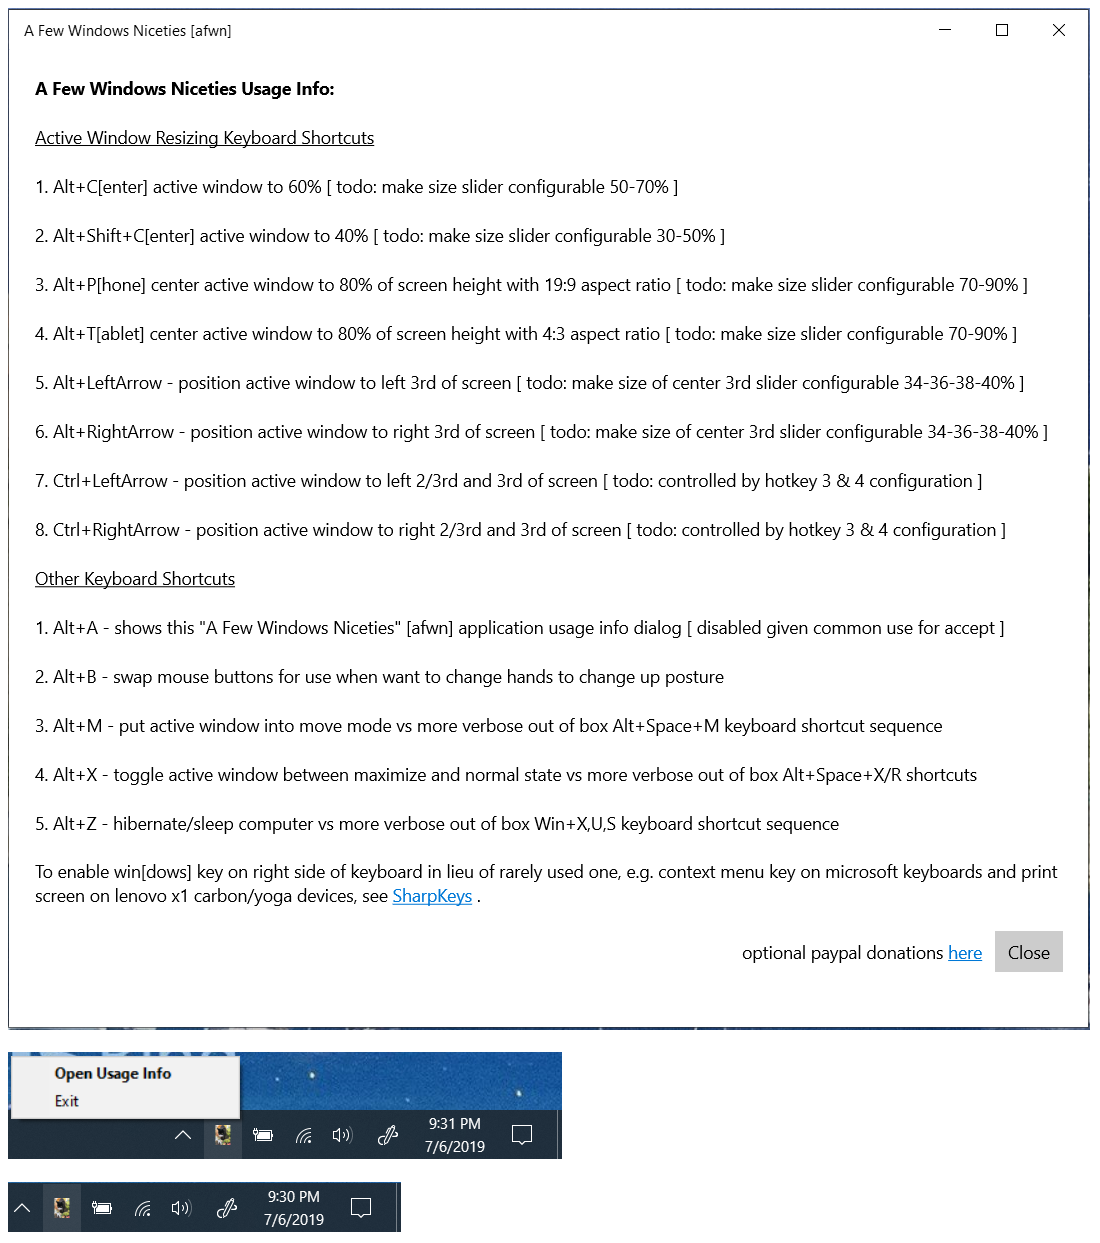
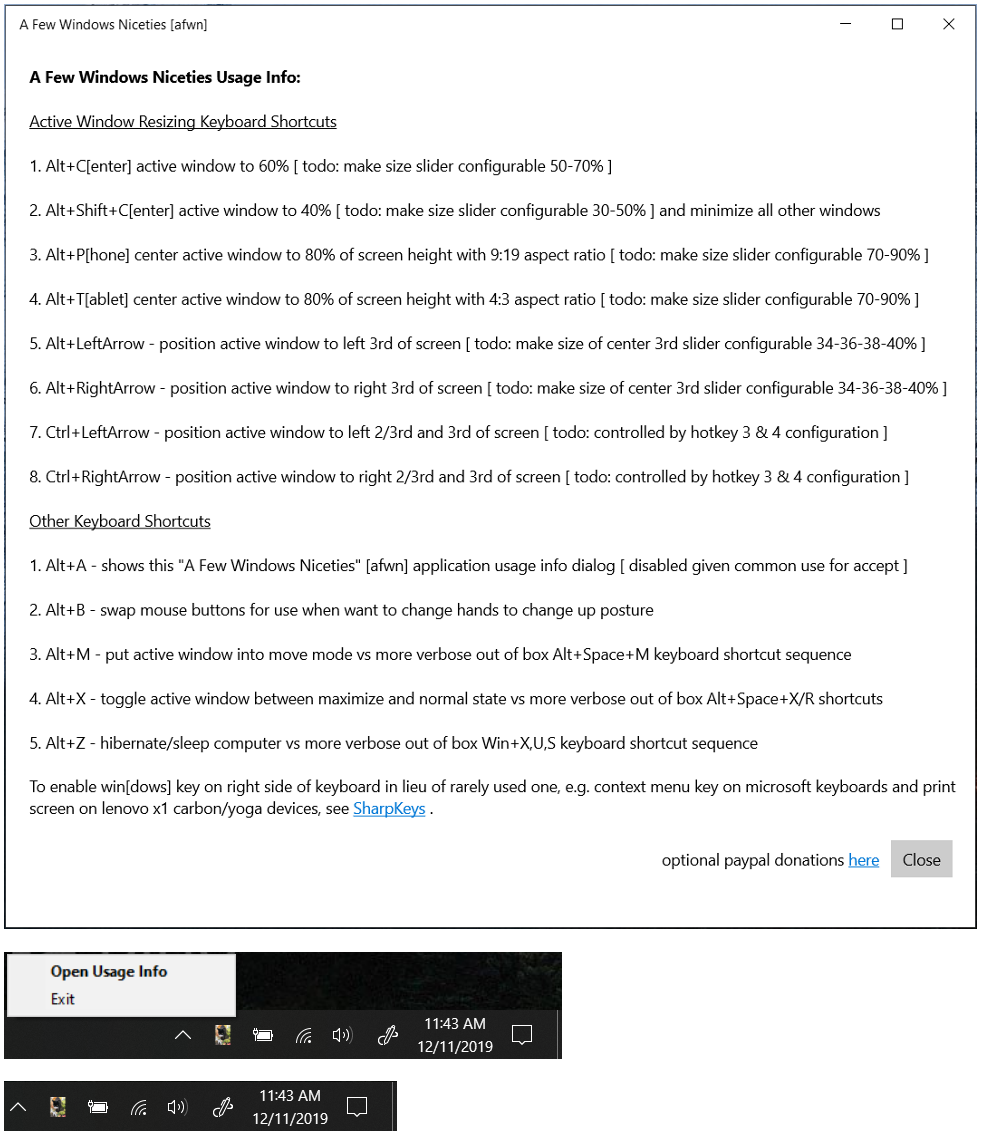
1.1.11.0 release updates where correcting alt+t[ablet] active window resizing to use 4:3 vs 1:1 and added code to try and enable winkey+home behavior when alt+shift+c[enter] used but didn't enable for reasons noted in comments

Changed region(s): [[0.0, 0.0, 1.0, 1.0]]

diff --git a/SystrayExtension/MainPage.xaml b/SystrayExtension/MainPage.xaml
@@ -36,8 +36,8 @@
             <TextBlock FontWeight="Bold" Margin="10,20,0,20">A Few Windows Niceties Usage Info:</TextBlock>
             <TextBlock><Underline>Active Window Resizing Keyboard Shortcuts</Underline></TextBlock>
             <TextBlock>1. Alt+C[enter] active window to 60% [ todo: make size slider configurable 50-70% ]</TextBlock>
-            <TextBlock>2. Alt+Shift+C[enter] active window to 40% [ todo: make size slider configurable 30-50% ]</TextBlock>
-            <TextBlock>3. Alt+P[hone] center active window to 80% of screen height with 19:9 aspect ratio [ todo: make size slider configurable 70-90% ]</TextBlock>
+            <TextBlock>2. Alt+Shift+C[enter] active window to 40% [ todo: make size slider configurable 30-50% ] and minimize all other windows</TextBlock>
+            <TextBlock>3. Alt+P[hone] center active window to 80% of screen height with 9:19 aspect ratio [ todo: make size slider configurable 70-90% ]</TextBlock>
             <TextBlock>4. Alt+T[ablet] center active window to 80% of screen height with 4:3 aspect ratio [ todo: make size slider configurable 70-90% ]</TextBlock>
             <TextBlock>5. Alt+LeftArrow - position active window to left 3rd of screen [ todo: make size of center 3rd slider configurable 34-36-38-40% ]</TextBlock>
             <TextBlock>6. Alt+RightArrow - position active window to right 3rd of screen [ todo: make size of center 3rd slider configurable 34-36-38-40% ]</TextBlock>

diff --git a/SystrayComponent/PositionActiveWindow.cs b/SystrayComponent/PositionActiveWindow.cs
@@ -3,6 +3,7 @@ using System.Collections.Generic;
 using System.Diagnostics;
 using System.Runtime.InteropServices;
 using System.Text;
+using System.Threading;
 using System.Threading.Tasks;
 using System.Windows.Forms;
 using Windows.UI.ViewManagement;
@@ -95,6 +96,21 @@ namespace SystrayComponent
         //const ulong SC_MOVE = 0xF010;
         readonly UIntPtr SC_MOVE = new UIntPtr(0xF010);
         readonly UIntPtr SC_MAXIMIZE = new UIntPtr(0xF030);
+
+        // win32 api for minimizing all windows -> https://stackoverflow.com/questions/13942765/minimize-all-open-windows
+        // WPARAM MIN_ALL -> https://stackoverflow.com/questions/785054/minimizing-all-open-windows-in-c-sharp
+        const int WM_COMMAND = 0x0111;
+        readonly UIntPtr MIN_ALL = new UIntPtr(0x01A3); // == 419 decimal
+        readonly UIntPtr MIN_ALL_UNDO = new UIntPtr(0x01A0); // == 416 decimal
+
+        // win32 api virtual key codes https://docs.microsoft.com/en-us/windows/win32/inputdev/virtual-key-codes
+        //readonly UIntPtr MOD_ALT = new UIntPtr(0x0001);
+        //readonly UIntPtr MOD_CONTROL = new UIntPtr(0x0002);
+        //readonly UIntPtr MOD_SHIFT = new UIntPtr(0x0004);
+        readonly UIntPtr MOD_WIN = new UIntPtr(0x0008);
+
+        //readonly IntPtr VK_END = new IntPtr(0x0023);
+        readonly IntPtr VK_HOME = new IntPtr(0x0024);
         #endregion
 
         #region Public Methods
@@ -193,8 +209,8 @@ namespace SystrayComponent
                 // https://docs.microsoft.com/en-us/windows/desktop/api/winuser/nf-winuser-sendmessage, https://www.bing.com/search?q=c%23+wparam+lparam ->
                 // https://stackoverflow.com/questions/2515261/what-are-the-definitions-for-lparam-and-wparam and c# types reference summary ->
                 // short [ / Int16 ] -> ushort [ / UInt16 ]-> int [ / Int32 ] -> uint [ / UInt32 ] -> long -> [ / Int64 ] -> ulong [ / UInt64 ] and float -> double -> decimal
-                //SendMessage(awh, WM_SYSCOMMAND, SC_MOVE, 0); // if using signature (IntPtr hWnd, int msg, ulong wParam, long lParam); generates PInvokeStackImbalance upon return
-                SendMessage(awh, WM_SYSCOMMAND, SC_MOVE, new IntPtr(0)); // if using signature (IntPtr hWnd, int msg, UIntPtr wParam, IntPtr lParam);
+                //SendMessage(awh, WM_SYSCOMMAND, SC_MOVE, IntPtr.Zero); // if using signature (IntPtr hWnd, int msg, ulong wParam, long lParam); generates PInvokeStackImbalance upon return
+                SendMessage(awh, WM_SYSCOMMAND, SC_MOVE, IntPtr.Zero); // if using signature (IntPtr hWnd, int msg, UIntPtr wParam, IntPtr lParam);
             }
         }
 
@@ -204,14 +220,14 @@ namespace SystrayComponent
 
             if (awh != IntPtr.Zero && !IsWindowInMaximizeState(awh))  // only act on active window that is not currently in maximize state where maximizing it makes sense
             {
-                //SendMessage(awh, WM_SYSCOMMAND, SC_MAXIMIZE, 0); // if using signature (IntPtr hWnd, int msg, ulong wParam, long lParam); generates PInvokeStackImbalance upon return
-                //SendMessage(awh, WM_SYSCOMMAND, SC_MAXIMIZE, new IntPtr(0)); // if using signature (IntPtr hWnd, int msg, UIntPtr wParam, IntPtr lParam);
+                //SendMessage(awh, WM_SYSCOMMAND, SC_MAXIMIZE, IntPtr.Zero); // if using signature (IntPtr hWnd, int msg, ulong wParam, long lParam); generates PInvokeStackImbalance upon return
+                //SendMessage(awh, WM_SYSCOMMAND, SC_MAXIMIZE, IntPtr.Zero); // if using signature (IntPtr hWnd, int msg, UIntPtr wParam, IntPtr lParam);
                 ShowWindow(awh, SW_MAXIMIZE);
             }
             else if (awh != IntPtr.Zero && !IsWindowInNormalState(awh))  // only act on active window that is not currently in normal state where normal/restore it makes sense
             {
-                //SendMessage(awh, WM_SYSCOMMAND, SW_RESTORE, 0); // if using signature (IntPtr hWnd, int msg, ulong wParam, long lParam); generates PInvokeStackImbalance upon return
-                //SendMessage(awh, WM_SYSCOMMAND, SW_RESTORE, new IntPtr(0)); // if using signature (IntPtr hWnd, int msg, UIntPtr wParam, IntPtr lParam);
+                //SendMessage(awh, WM_SYSCOMMAND, SW_RESTORE, IntPtr.Zero); // if using signature (IntPtr hWnd, int msg, ulong wParam, long lParam); generates PInvokeStackImbalance upon return
+                //SendMessage(awh, WM_SYSCOMMAND, SW_RESTORE, IntPtr.Zero); // if using signature (IntPtr hWnd, int msg, UIntPtr wParam, IntPtr lParam);
                 ShowWindow(awh, SW_RESTORE);
             }
         }
@@ -231,13 +247,24 @@ namespace SystrayComponent
         /// </summary>
         /// <param name="percentageOfTotalWidth">Percentage of total width to use when centering window, default is 60.</param>
         /// <param name="topBottomBorder">Number of pixels to use as border across top and bottom, default is 0.</param>
-        public void CenterActiveWindowPosition(int percentageOfTotalWidth = 60, int topBottomBorder = 0)
+        public void CenterActiveWindowPosition(int percentageOfTotalWidth = 60, int topBottomBorder = 0, bool minimizeAllOtherWindows = false)
         {
 // if you resize active window that is currently in SW_MAXIMIZE state it ends up not resizing it at all, e.g. in case of chrome, or
 // resizing it but with an appx 7px space across top and bottom of window and if you minimize it and then restore it comes back as
 // SW_MAXIMIZE state not expected SW_SHOW[NORMAL] state. so we check for SW_MAXIMIZE state and change to SW_SHOW[NORMAL] before
 // resizing
-            var awh = GetActiveWindowHandle(); var swState = SW_HIDE;
+
+            var awh = GetActiveWindowHandle();
+
+            if (minimizeAllOtherWindows)
+            {
+// minimimize all other windows, relevant if you want to eliminate distractions for creating a focused reading window experience, before ensuring active window is in restored state
+// the do that first and then restore active window before sizing it 
+                //DesktopHideAndRestore(hide: true);  // works but introduces a jarring window minimize, 1sec wait, then restore and resize
+                //MinimizeAllWindowsExceptActiveOne();  // doesn't yet work but is desired solution so uncomment if you can workaround using win32 api pinvoke solution
+            }
+
+            var swState = SW_HIDE;
             if (!IsWindowVisible(awh)) swState = SW_HIDE;
             else if (IsIconic(awh)) swState = SW_MINIMIZE;
             else if (IsZoomed(awh)) swState = SW_MAXIMIZE;
@@ -272,8 +299,8 @@ namespace SystrayComponent
         /// Take current active window and place it in center using specified percentage of total screen height and aspect ratio to determine width.
         /// </summary>
         /// <param name="percentageOfTotalHeight">Percentage of total screen height to use when determining when centering window, default is 80.</param>
-        /// <param name="aspectRatio">Aspect ratio to determine width of centered window after height has been calculated, default is current generation mobile device 19x9.</param>
-        public void CenterActiveWindowPositionHeightAndspectRatio(int percentageOfTotalHeight = 80, decimal aspectRatio = (decimal)19/9)
+        /// <param name="aspectRatio">Aspect ratio to determine width of centered window after height has been calculated, default is current generation mobile device 9x19.</param>
+        public void CenterActiveWindowPositionHeightAndAspectRatio(int percentageOfTotalHeight = 80, decimal aspectRatio = (decimal)9/19)
         {
 // if you resize active window that is currently in SW_MAXIMIZE state it ends up not resizing it at all, e.g. in case of chrome, or
 // resizing it but with an appx 7px space across top and bottom of window and if you minimize it and then restore it comes back as
@@ -294,7 +321,7 @@ namespace SystrayComponent
             var sr = primaryScreen.WorkingArea; // accounts for taskbar
 
             var topBottomBorderPercent = Convert.ToDecimal(100 - percentageOfTotalHeight) / 2 / 100;
-            var leftRightBorder = Convert.ToInt16((sr.Right - sr.Left - ((sr.Bottom - sr.Top - (2 * topBottomBorderPercent)) / aspectRatio)) / 2);
+            var leftRightBorder = Convert.ToInt16((sr.Right - sr.Left - ((sr.Bottom - sr.Top - (2 * topBottomBorderPercent)) * aspectRatio)) / 2);
             
             var position = new Rect() { Left = sr.Left + leftRightBorder, Top = Convert.ToInt16(sr.Bottom * topBottomBorderPercent) /*, 
                 Right = sr.Right - leftRightBorder - Left, Bottom = Convert.ToInt16(sr.Top * (1 - topBottomBorder)) - Top */
@@ -310,6 +337,46 @@ namespace SystrayComponent
 
             SetActiveWindowPosition(position.Left, position.Top, position.Right, position.Bottom);
         }
+
+
+        /// <summary>
+        /// Execute winkey+d[esktop all windows hide and restore] keyboard shortcut not the winkey+m[inimize desktop] keyboard shortcut
+        /// </summary>
+        /// <param name="display"></param>
+        public void DesktopHideAndRestore(bool hide = true)
+        {
+            var stwh = FindWindow("Shell_TrayWnd", null);
+            if (hide) /* var res = */ SendMessage(stwh, WM_COMMAND, MIN_ALL, IntPtr.Zero);
+            else /* var res = */ SendMessage(stwh, WM_COMMAND, MIN_ALL_UNDO, IntPtr.Zero);
+            Thread.Sleep(1000); // introduce a 1000ms sleep to allow minimize desktop processing to complete before any subsequent window restore and sizing commands are issued
+        }
+
+        /// <summary>
+        /// Enumerate and minimize all windows except for currently active one, i.e. active window title bar mouse click + shake/wiggle or winkey+home keyboard shortcut
+        /// </summary>
+        public void MinimizeAllWindowsExceptActiveOne()
+        {
+// minimize all windows except the active one -> http://www.zeigen.com/shortcuts/2015/07/16/min-all-except-active/ and
+// https://www.labnol.org/software/minimize-open-windows-quickly/9985/
+// c# sendkeys windows key combination -> c# sendkeys Keys.LWin combination -> 
+// https://stackoverflow.com/questions/10366152/sending-windows-key-using-sendkeys
+// https://stackoverflow.com/questions/12877547/vbscript-sendkeys-ctrllwintab
+// https://stackoverflow.com/questions/48277076/how-to-send-keyboard-combination-shiftwinleft-using-sendkeys-in-c
+// ** https://stackoverflow.com/questions/32077050/sending-a-keypress-to-the-active-window-that-doesnt-handle-windows-message-in-c
+// ** https://stackoverflow.com/questions/15536980/send-keystroke-to-application-in-c-sharp-sendkeys-postmessage-sendmessage-all
+// your post for help https://stackoverflow.com/questions/59278021/using-c-sharp-sendkeys-to-send-winkeyhome-for-minimize-all-windows-except-activ
+// for ctrl use ^ | for winkey use ctrl+esc ^{Esc} | for alt use % | for shift use + 
+            //SendKeys.SendWait("{" + Keys.LWin + "}{" + Keys.Home + "}"); // System.ArgumentException { "Keyword \"LWin\" is not valid." }
+            //SendKeys.SendWait("{" + Keys.RWin + "}{" + Keys.Home + "}"); // System.ArgumentException { "Keyword \"RWin\" is not valid." }
+            //SendKeys.SendWait("{LWin}{Home}"); // System.ArgumentException { "Keyword \"LWin\" is not valid." }
+            //SendKeys.SendWait("^{Esc}{Home}"); // launches start menu as if just winkey was pressed
+            //SendKeys.SendWait("(^{Esc}{Home})"); // launches start menu as if just winkey was pressed and then dismisses it
+            SendKeys.SendWait("^({Esc}{Home})"); // launches start menu as if just winkey was pressed and then dismisses it
+            //SendKeys.SendWait("(^{Esc}){Home}"); // launches start menu as if just winkey was pressed and then dismisses it
+            //SendKeys.SendWait("((^{Esc}){Home})"); // launches start menu as if just winkey was pressed and then dismisses it
+            //SendKeys.SendWait("(^({Esc}{Home}))"); // launches start menu as if just winkey was pressed and then dismisses it
+        }
+
         /// <summary>
         /// Take current active window and place it in left or right 3rd of screen area.
         /// </summary>
@@ -505,7 +572,6 @@ namespace SystrayComponent
 // This is likely because the managed PInvoke signature does not match the unmanaged target signature. 
 // Check that the calling convention and parameters of the PInvoke signature match the target unmanaged signature.
         public static extern IntPtr SendMessage(IntPtr hWnd, int msg, UIntPtr wParam, IntPtr lParam);
-
         #endregion
     }
 }

diff --git a/SystrayComponent/SystrayApplicationContext.cs b/SystrayComponent/SystrayApplicationContext.cs
@@ -178,19 +178,19 @@ namespace SystrayComponent
                 paw.CenterActiveWindowPosition(); 
                 hotkeyInProgress = false;
             }
-            else if (id == 1002) // center active window using 40% width and default 0px top/bottom parameter settings
+            else if (id == 1002) // center active window using 40% width and default 0px top/bottom parameter settings and minimize all other windows
             {
-                paw.CenterActiveWindowPosition(40);
+                paw.CenterActiveWindowPosition(40, minimizeAllOtherWindows: true);
                 hotkeyInProgress = false;
             }
-            else if (id == 1003) // center active window using default 80% height and phone 19/9 aspect ratio parameter settings
+            else if (id == 1003) // center active window using default 80% height and phone 9/19 aspect ratio parameter settings
             {
-                paw.CenterActiveWindowPositionHeightAndspectRatio();
+                paw.CenterActiveWindowPositionHeightAndAspectRatio();
                 hotkeyInProgress = false;
             }
-            else if (id == 1004) // center active window using 80% height and tablet 4/3 aspect ratio parameter settings
+            else if (id == 1004) // center active window using 80% height and tablet 16/9 [ amzn fire ] or 3/2 [ msft surface ] or 4/3 [ apple ipad ] aspect ratio parameter settings
             {
-                paw.CenterActiveWindowPositionHeightAndspectRatio(80, 4/3);
+                paw.CenterActiveWindowPositionHeightAndAspectRatio(80, (decimal)4/3); // or 5/4, 6/5, 7/6, 8/7, 9/8, 10/9 if you want something closer to a 1/1 aspect ratio
                 hotkeyInProgress = false;
             }
             else if (id == 1005) // place active window position to left using [34-36-38-]40% for center 3rd

diff --git a/SystrayComponent/Form1.Designer.cs b/SystrayComponent/Form1.Designer.cs
@@ -107,7 +107,7 @@ namespace SystrayComponent
             this.label4.Size = new System.Drawing.Size(564, 17);
             this.label4.TabIndex = 3;
             this.label4.Text = "2. Alt+Shift+C[enter] active window to 40% [ todo: make size slider configurable " +
-    "30-50% ]";
+    "30-50% ] and minimize all other windows";
             // 
             // label5
             // 
@@ -315,8 +315,8 @@ namespace SystrayComponent
             this.label18.Name = "label18";
             this.label18.Size = new System.Drawing.Size(815, 17);
             this.label18.TabIndex = 23;
-            this.label18.Text = "3. Alt+P[hone] center active window to 80% of screen height with 19:9 aspect rati" +
-    "o [ todo: make size slider configurable 70-90% ]";
+            this.label18.Text = "3. Alt+P[hone] center active window to 80% of screen height with 9:19 aspect " +
+    "ratio [ todo: make size slider configurable 70-90% ]";
             // 
             // label19
             // 
@@ -326,8 +326,8 @@ namespace SystrayComponent
             this.label19.Name = "label19";
             this.label19.Size = new System.Drawing.Size(806, 17);
             this.label19.TabIndex = 24;
-            this.label19.Text = "4. Alt+T[ablet] center active window to 80% of screen height with 4:3 aspect rati" +
-    "o [ todo: make size slider configurable 70-90% ]";
+            this.label19.Text = "4. Alt+T[ablet] center active window to 80% of screen height with 4:3 aspect " +
+    "ratio [ todo: make size slider configurable 70-90% ]";
             // 
             // Form1
             // 

diff --git a/SystrayComponent/RegisterHotKeyWindow.cs b/SystrayComponent/RegisterHotKeyWindow.cs
@@ -21,7 +21,7 @@ namespace SystrayComponent
     {
         #region Constant, Structure and Delegate Definitions
         const int WM_HOTKEY = 0x0312;
-        const int WM_DESTROY = 0x0002;
+        const int WM_DESTROY = 0x0002;        
 
         public delegate void HotkeyDelegate(int ID);
         #endregion
